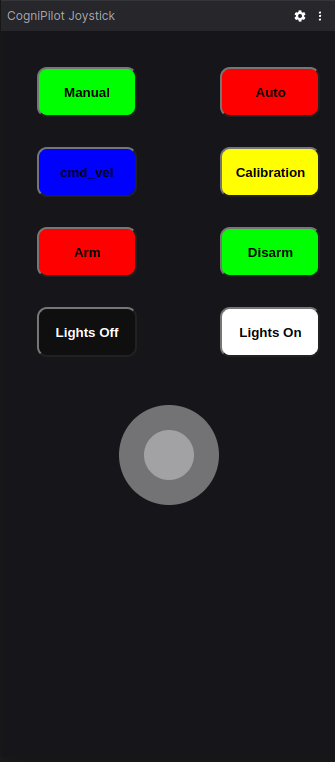
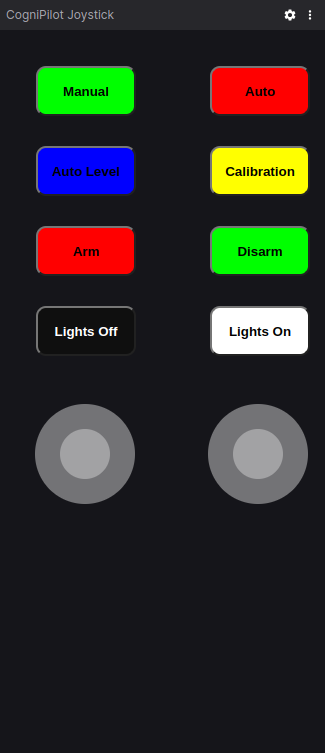
Adds second joystick to controll roll and pitch
Replace CMD_VEL with Auto Level Button

Minor Cosmetic Changes

Revert Change

diff --git a/src/CogniPilotJoy.tsx b/src/CogniPilotJoy.tsx
@@ -146,10 +146,10 @@ function CogniPilotJoyPanel({ context }: { context: PanelExtensionContext }): JS
     }
   }
 
-  let manager: nipplejs.JoystickManager;
-  let init_nipple = (colorScheme: string) => {
+  let managerLeft: nipplejs.JoystickManager;
+  let init_left_nipple = (colorScheme: string) => {
     let options: JoystickManagerOptions = {
-      zone: document.getElementById('nipple_zone') as HTMLDivElement,
+      zone: document.getElementById('nipple_zone_left') as HTMLDivElement,
       color: (colorScheme === 'light' ? 'black' : 'white'),
       size: 100,
 
@@ -157,26 +157,62 @@ function CogniPilotJoyPanel({ context }: { context: PanelExtensionContext }): JS
       mode: 'static',
 
       dynamicPage: true,
-      position: { left: '50%', top: '60%' },
+      position: { left: '25%', top: '60%' },
     };
     timer = setInterval(() => {
         cmdJoy()
       }, 200)
-    manager = nipplejs.create(options);
-    manager.on('start', (evt, data) => {
+    managerLeft = nipplejs.create(options);
+    managerLeft.on('start', (evt, data) => {
       console.log(evt)
       console.log('start')
       console.log(data.position)
       startPoint = data.position
     })
-    manager.on('move', (evt, data) => {
+    managerLeft.on('move', (evt, data) => {
       console.log(evt)
       joyAxes[1]=2.0*(startPoint.y - data.position.y) / 100.0;
+      joyAxes[4]=2.0*(startPoint.x - data.position.x) / 100.0;
+    })
+    managerLeft.on('end', (evt, data) => {
+      console.log(evt)
+      joyAxes[1]=2.0*(startPoint.y - data.position.y) / 100.0;
+      joyAxes[4]=2.0*(startPoint.x - data.position.x) / 100.0;
+    })
+    timer
+  }
+
+  let managerRight: nipplejs.JoystickManager;
+  let init_right_nipple = (colorScheme: string) => {
+    let options: JoystickManagerOptions = {
+      zone: document.getElementById('nipple_zone_right') as HTMLDivElement,
+      color: (colorScheme === 'light' ? 'black' : 'white'),
+      size: 100,
+
+      restOpacity: 0.8,
+      mode: 'static',
+
+      dynamicPage: true,
+      position: { right: '25%', top: '60%' },
+    };
+    timer = setInterval(() => {
+        cmdJoy()
+      }, 200)
+    managerRight = nipplejs.create(options);
+    managerRight.on('start', (evt, data) => {
+      console.log(evt)
+      console.log('start')
+      console.log(data.position)
+      startPoint = data.position
+    })
+    managerRight.on('move', (evt, data) => {
+      console.log(evt)
+      joyAxes[2]=2.0*(startPoint.y - data.position.y) / 100.0;
       joyAxes[3]=2.0*(startPoint.x - data.position.x) / 100.0;
     })
-    manager.on('end', (evt, data) => {
+    managerRight.on('end', (evt, data) => {
       console.log(evt)
-      joyAxes[1]=2.0*(startPoint.y - data.position.y) / 100.0;
+      joyAxes[2]=2.0*(startPoint.y - data.position.y) / 100.0;
       joyAxes[3]=2.0*(startPoint.x - data.position.x) / 100.0;
     })
     timer
@@ -244,8 +280,10 @@ function CogniPilotJoyPanel({ context }: { context: PanelExtensionContext }): JS
         setColorScheme(renderState.colorScheme);
         if (renderState.colorScheme !== CURRENT_SCHEME) {
           CURRENT_SCHEME = renderState.colorScheme
-          manager.destroy();
-          init_nipple(renderState.colorScheme);
+          managerLeft.destroy();
+          managerRight.destroy();
+          init_left_nipple(renderState.colorScheme);
+          init_right_nipple(renderState.colorScheme);
         }
       }
     };
@@ -258,7 +296,8 @@ function CogniPilotJoyPanel({ context }: { context: PanelExtensionContext }): JS
     if (CURRENT_SCHEME === '') {
       CURRENT_SCHEME = colorScheme
     }
-    init_nipple(CURRENT_SCHEME);
+    init_left_nipple(CURRENT_SCHEME);
+    init_right_nipple(CURRENT_SCHEME);
 
 
   }, [context]);
@@ -277,7 +316,8 @@ function CogniPilotJoyPanel({ context }: { context: PanelExtensionContext }): JS
       <div style={{ padding: "1rem" }}>
         {/* <h2>nipple test</h2> */}
 
-        <div id="nipple_zone"></div>
+        <div id="nipple_zone_left"></div>
+        <div id="nipple_zone_right"></div>
 
         <div style={joyStyles.box}>
           <button 
@@ -302,7 +342,7 @@ function CogniPilotJoyPanel({ context }: { context: PanelExtensionContext }): JS
               joyButtons[2]=1;
               pubCount=0;
             }}
-          >cmd_vel</button>
+          >Auto Level</button>
           <button 
             style={{...joyStyles.button, ...joyStyles.yellow}}
             onClick={() => {
